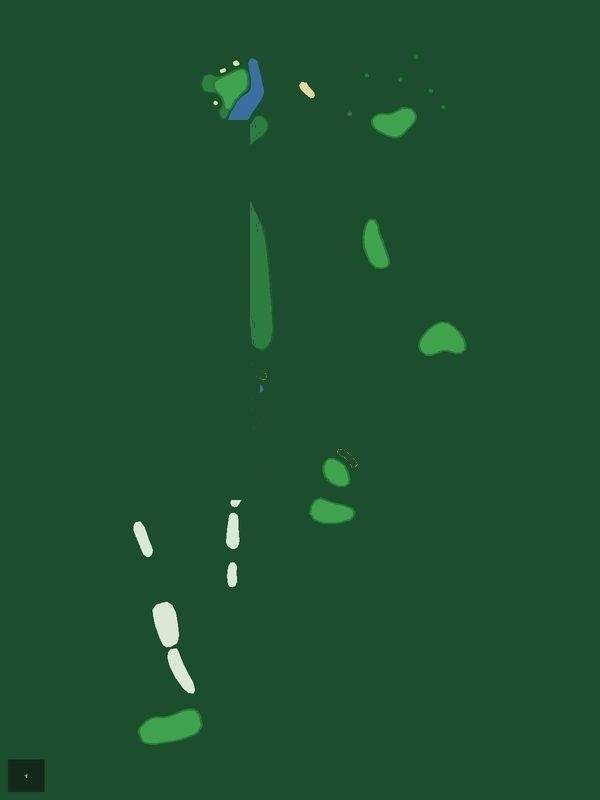
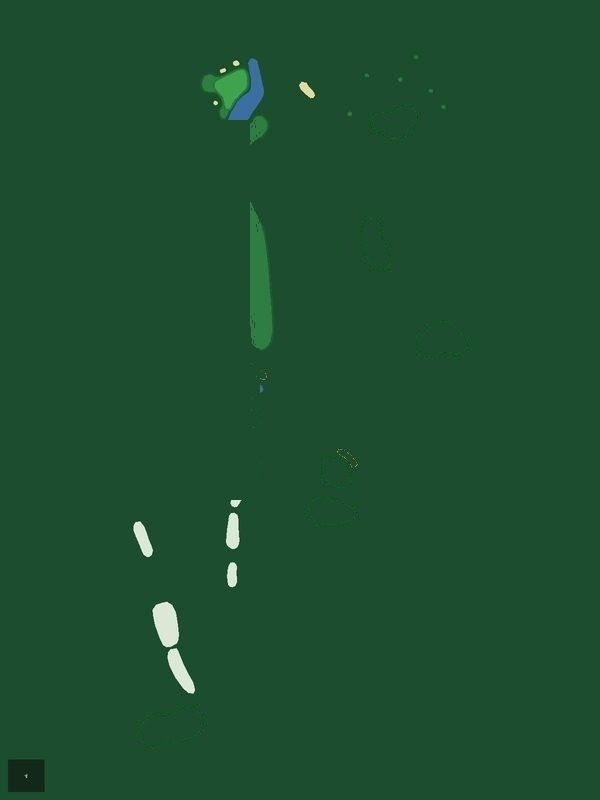
TPC Sawgrass: fix H3/H4/H5/H7 green locations, calibrate all 18 scales
H3: tee/pin were backwards (pin on bottom interloper blobs); painted
out 2 interloper green blobs, pin to real top green (0.633,0.146),
tee to lowest tee box (0.638,0.596).
H4: tee/pin swapped (pin on bottom blob); painted out 6 interloper
blobs, pin to real top green+water complex (0.385,0.107), tee to
on-corridor tee boxes (0.386,0.718).
H5: pin sat on a 3px noise speck; painted out 4 speck comps, pin to
the real (small) top green (0.238,0.187); tee unchanged.
H7: pin on detached top-right blob; vertical flip (tee was at top,
green at bottom — now matches screenshot bottom->top play with water
left), painted out interloper blob, pin to real green (0.457,0.132),
tee to bottom tee boxes (0.457,0.909).
All 18 holes re-verified against the new screenshots; H1,H2,H6,H8-H18
geometry confirmed GOOD. All 18 masks now contain exactly one green
component (the pin's green); all pins verify on-green via the lie
sampler palette. Removed the never-validated yardage markers on
H3/H5/H7 (invalidated by the pin moves). Calibrated yardsPerPixel on
all 18 holes from the new screenshot header yardages; par sequence
verified 4-5-3-4-4-4-4-3-5 / 4-5-4-3-4-4-5-3-4 (par 72), no changes.

diff --git a/app/lib/widgets/hole_map_manifest.dart b/app/lib/widgets/hole_map_manifest.dart
@@ -252,24 +252,24 @@ const holeMapManifest = <String, Map<int, HoleMapAsset>>{
     18: HoleMapAsset(par: 4, map: 'assets/hole_maps/pinehurst-no-2/18.jpg', mask: 'assets/hole_maps/pinehurst-no-2/18_mask.png', tee: Offset(0.493, 0.907), pin: Offset(0.492, 0.126), source: 'mixed'),
   },
   'TPC Sawgrass': {
-    1: HoleMapAsset(par: 4, map: 'assets/hole_maps/tpc-sawgrass/1.jpg', mask: 'assets/hole_maps/tpc-sawgrass/1_mask.png', tee: Offset(0.505, 0.925), pin: Offset(0.506, 0.124), source: 'osm', yardages: const [YardageMarker(offset: Offset(0.434, 0.536), yards: 229)]),
-    2: HoleMapAsset(par: 5, map: 'assets/hole_maps/tpc-sawgrass/2.jpg', mask: 'assets/hole_maps/tpc-sawgrass/2_mask.png', tee: Offset(0.507, 0.925), pin: Offset(0.508, 0.176), source: 'osm'),
-    3: HoleMapAsset(par: 3, map: 'assets/hole_maps/tpc-sawgrass/3.jpg', mask: 'assets/hole_maps/tpc-sawgrass/3_mask.png', tee: Offset(0.637, 0.143), pin: Offset(0.260, 0.895), source: 'osm', yardages: const [YardageMarker(offset: Offset(0.381, 0.911), yards: 8), YardageMarker(offset: Offset(0.471, 0.904), yards: 14), YardageMarker(offset: Offset(0.491, 0.429), yards: 112)]),
-    4: HoleMapAsset(par: 4, map: 'assets/hole_maps/tpc-sawgrass/4.jpg', mask: 'assets/hole_maps/tpc-sawgrass/4_mask.png', tee: Offset(0.387, 0.107), pin: Offset(0.285, 0.910), source: 'osm'),
-    5: HoleMapAsset(par: 4, map: 'assets/hole_maps/tpc-sawgrass/5.jpg', mask: 'assets/hole_maps/tpc-sawgrass/5_mask.png', tee: Offset(0.239, 0.629), pin: Offset(0.393, 0.313), source: 'osm', yardages: const [YardageMarker(offset: Offset(0.193, 0.377), yards: 184), YardageMarker(offset: Offset(0.212, 0.511), yards: 342)]),
-    6: HoleMapAsset(par: 4, map: 'assets/hole_maps/tpc-sawgrass/6.jpg', mask: 'assets/hole_maps/tpc-sawgrass/6_mask.png', tee: Offset(0.552, 0.925), pin: Offset(0.550, 0.214), source: 'osm'),
-    7: HoleMapAsset(par: 4, map: 'assets/hole_maps/tpc-sawgrass/7.jpg', mask: 'assets/hole_maps/tpc-sawgrass/7_mask.png', tee: Offset(0.458, 0.867), pin: Offset(0.790, 0.286), source: 'osm', yardages: const [YardageMarker(offset: Offset(0.718, 0.477), yards: 162), YardageMarker(offset: Offset(0.720, 0.508), yards: 180), YardageMarker(offset: Offset(0.722, 0.541), yards: 196), YardageMarker(offset: Offset(0.446, 0.792), yards: 408)]),
-    8: HoleMapAsset(par: 3, map: 'assets/hole_maps/tpc-sawgrass/8.jpg', mask: 'assets/hole_maps/tpc-sawgrass/8_mask.png', tee: Offset(0.625, 0.916), pin: Offset(0.625, 0.147), source: 'osm', yardages: const [YardageMarker(offset: Offset(0.598, 0.071), yards: -10), YardageMarker(offset: Offset(0.534, 0.106), yards: -3), YardageMarker(offset: Offset(0.733, 0.127), yards: 3), YardageMarker(offset: Offset(0.678, 0.185), yards: 21), YardageMarker(offset: Offset(0.503, 0.213), yards: 29), YardageMarker(offset: Offset(0.608, 0.278), yards: 48)]),
-    9: HoleMapAsset(par: 5, map: 'assets/hole_maps/tpc-sawgrass/9.jpg', mask: 'assets/hole_maps/tpc-sawgrass/9_mask.png', tee: Offset(0.500, 0.930), pin: Offset(0.500, 0.125), source: 'osm', yardages: const [YardageMarker(offset: Offset(0.597, 0.707), yards: 427)]),
-    10: HoleMapAsset(par: 4, map: 'assets/hole_maps/tpc-sawgrass/10.jpg', mask: 'assets/hole_maps/tpc-sawgrass/10_mask.png', tee: Offset(0.484, 0.801), pin: Offset(0.481, 0.101), source: 'osm'),
-    11: HoleMapAsset(par: 5, map: 'assets/hole_maps/tpc-sawgrass/11.jpg', mask: 'assets/hole_maps/tpc-sawgrass/11_mask.png', tee: Offset(0.497, 0.926), pin: Offset(0.498, 0.118), source: 'osm', yardages: const [YardageMarker(offset: Offset(0.589, 0.502), yards: 277)]),
-    12: HoleMapAsset(par: 4, map: 'assets/hole_maps/tpc-sawgrass/12.jpg', mask: 'assets/hole_maps/tpc-sawgrass/12_mask.png', tee: Offset(0.423, 0.916), pin: Offset(0.421, 0.136), source: 'osm', yardages: const [YardageMarker(offset: Offset(0.824, 0.503), yards: 160)]),
-    13: HoleMapAsset(par: 3, map: 'assets/hole_maps/tpc-sawgrass/13.jpg', mask: 'assets/hole_maps/tpc-sawgrass/13_mask.png', tee: Offset(0.579, 0.895), pin: Offset(0.580, 0.312), source: 'osm', yardages: const [YardageMarker(offset: Offset(0.584, 0.381), yards: 18), YardageMarker(offset: Offset(0.729, 0.336), yards: 16), YardageMarker(offset: Offset(0.697, 0.429), yards: 32)]),
-    14: HoleMapAsset(par: 4, map: 'assets/hole_maps/tpc-sawgrass/14.jpg', mask: 'assets/hole_maps/tpc-sawgrass/14_mask.png', tee: Offset(0.517, 0.903), pin: Offset(0.517, 0.209), source: 'osm'),
-    15: HoleMapAsset(par: 4, map: 'assets/hole_maps/tpc-sawgrass/15.jpg', mask: 'assets/hole_maps/tpc-sawgrass/15_mask.png', tee: Offset(0.569, 0.917), pin: Offset(0.568, 0.114), source: 'osm'),
-    16: HoleMapAsset(par: 5, map: 'assets/hole_maps/tpc-sawgrass/16.jpg', mask: 'assets/hole_maps/tpc-sawgrass/16_mask.png', tee: Offset(0.509, 0.828), pin: Offset(0.507, 0.096), source: 'osm'),
-    17: HoleMapAsset(par: 3, map: 'assets/hole_maps/tpc-sawgrass/17.jpg', mask: 'assets/hole_maps/tpc-sawgrass/17_mask.png', tee: Offset(0.339, 0.896), pin: Offset(0.344, 0.329), source: 'osm', yardages: const [YardageMarker(offset: Offset(0.001, 0.380), yards: 19), YardageMarker(offset: Offset(0.387, 0.325), yards: 10), YardageMarker(offset: Offset(0.378, 0.832), yards: 125)]),
-    18: HoleMapAsset(par: 4, map: 'assets/hole_maps/tpc-sawgrass/18.jpg', mask: 'assets/hole_maps/tpc-sawgrass/18_mask.png', tee: Offset(0.562, 0.904), pin: Offset(0.559, 0.112), source: 'osm'),
+    1: HoleMapAsset(par: 4, map: 'assets/hole_maps/tpc-sawgrass/1.jpg', mask: 'assets/hole_maps/tpc-sawgrass/1_mask.png', tee: Offset(0.505, 0.925), pin: Offset(0.506, 0.124), source: 'osm', yardsPerPixel: 0.6632, yardages: const [YardageMarker(offset: Offset(0.434, 0.536), yards: 229)]),
+    2: HoleMapAsset(par: 5, map: 'assets/hole_maps/tpc-sawgrass/2.jpg', mask: 'assets/hole_maps/tpc-sawgrass/2_mask.png', tee: Offset(0.507, 0.925), pin: Offset(0.508, 0.176), source: 'osm', yardsPerPixel: 0.8912),
+    3: HoleMapAsset(par: 3, map: 'assets/hole_maps/tpc-sawgrass/3.jpg', mask: 'assets/hole_maps/tpc-sawgrass/3_mask.png', tee: Offset(0.638, 0.596), pin: Offset(0.633, 0.146), source: 'osm', yardsPerPixel: 0.4944),
+    4: HoleMapAsset(par: 4, map: 'assets/hole_maps/tpc-sawgrass/4.jpg', mask: 'assets/hole_maps/tpc-sawgrass/4_mask.png', tee: Offset(0.386, 0.718), pin: Offset(0.385, 0.107), source: 'osm', yardsPerPixel: 0.7897),
+    5: HoleMapAsset(par: 4, map: 'assets/hole_maps/tpc-sawgrass/5.jpg', mask: 'assets/hole_maps/tpc-sawgrass/5_mask.png', tee: Offset(0.239, 0.629), pin: Offset(0.238, 0.187), source: 'osm', yardsPerPixel: 1.3348),
+    6: HoleMapAsset(par: 4, map: 'assets/hole_maps/tpc-sawgrass/6.jpg', mask: 'assets/hole_maps/tpc-sawgrass/6_mask.png', tee: Offset(0.552, 0.925), pin: Offset(0.550, 0.214), source: 'osm', yardsPerPixel: 0.6909),
+    7: HoleMapAsset(par: 4, map: 'assets/hole_maps/tpc-sawgrass/7.jpg', mask: 'assets/hole_maps/tpc-sawgrass/7_mask.png', tee: Offset(0.457, 0.909), pin: Offset(0.457, 0.132), source: 'osm', yardsPerPixel: 0.7272),
+    8: HoleMapAsset(par: 3, map: 'assets/hole_maps/tpc-sawgrass/8.jpg', mask: 'assets/hole_maps/tpc-sawgrass/8_mask.png', tee: Offset(0.625, 0.916), pin: Offset(0.625, 0.147), source: 'osm', yardsPerPixel: 0.3885, yardages: const [YardageMarker(offset: Offset(0.598, 0.071), yards: -10), YardageMarker(offset: Offset(0.534, 0.106), yards: -3), YardageMarker(offset: Offset(0.733, 0.127), yards: 3), YardageMarker(offset: Offset(0.678, 0.185), yards: 21), YardageMarker(offset: Offset(0.503, 0.213), yards: 29), YardageMarker(offset: Offset(0.608, 0.278), yards: 48)]),
+    9: HoleMapAsset(par: 5, map: 'assets/hole_maps/tpc-sawgrass/9.jpg', mask: 'assets/hole_maps/tpc-sawgrass/9_mask.png', tee: Offset(0.500, 0.930), pin: Offset(0.500, 0.125), source: 'osm', yardsPerPixel: 0.9053, yardages: const [YardageMarker(offset: Offset(0.597, 0.707), yards: 427)]),
+    10: HoleMapAsset(par: 4, map: 'assets/hole_maps/tpc-sawgrass/10.jpg', mask: 'assets/hole_maps/tpc-sawgrass/10_mask.png', tee: Offset(0.484, 0.801), pin: Offset(0.481, 0.101), source: 'osm', yardsPerPixel: 0.7554),
+    11: HoleMapAsset(par: 5, map: 'assets/hole_maps/tpc-sawgrass/11.jpg', mask: 'assets/hole_maps/tpc-sawgrass/11_mask.png', tee: Offset(0.497, 0.926), pin: Offset(0.498, 0.118), source: 'osm', yardsPerPixel: 0.8679, yardages: const [YardageMarker(offset: Offset(0.589, 0.502), yards: 277)]),
+    12: HoleMapAsset(par: 4, map: 'assets/hole_maps/tpc-sawgrass/12.jpg', mask: 'assets/hole_maps/tpc-sawgrass/12_mask.png', tee: Offset(0.423, 0.916), pin: Offset(0.421, 0.136), source: 'osm', yardsPerPixel: 0.5753, yardages: const [YardageMarker(offset: Offset(0.824, 0.503), yards: 160)]),
+    13: HoleMapAsset(par: 3, map: 'assets/hole_maps/tpc-sawgrass/13.jpg', mask: 'assets/hole_maps/tpc-sawgrass/13_mask.png', tee: Offset(0.579, 0.895), pin: Offset(0.580, 0.312), source: 'osm', yardsPerPixel: 0.3945, yardages: const [YardageMarker(offset: Offset(0.584, 0.381), yards: 18), YardageMarker(offset: Offset(0.729, 0.336), yards: 16), YardageMarker(offset: Offset(0.697, 0.429), yards: 32)]),
+    14: HoleMapAsset(par: 4, map: 'assets/hole_maps/tpc-sawgrass/14.jpg', mask: 'assets/hole_maps/tpc-sawgrass/14_mask.png', tee: Offset(0.517, 0.903), pin: Offset(0.517, 0.209), source: 'osm', yardsPerPixel: 0.8664),
+    15: HoleMapAsset(par: 4, map: 'assets/hole_maps/tpc-sawgrass/15.jpg', mask: 'assets/hole_maps/tpc-sawgrass/15_mask.png', tee: Offset(0.569, 0.917), pin: Offset(0.568, 0.114), source: 'osm', yardsPerPixel: 0.7316),
+    16: HoleMapAsset(par: 5, map: 'assets/hole_maps/tpc-sawgrass/16.jpg', mask: 'assets/hole_maps/tpc-sawgrass/16_mask.png', tee: Offset(0.509, 0.828), pin: Offset(0.507, 0.096), source: 'osm', yardsPerPixel: 0.8965),
+    17: HoleMapAsset(par: 3, map: 'assets/hole_maps/tpc-sawgrass/17.jpg', mask: 'assets/hole_maps/tpc-sawgrass/17_mask.png', tee: Offset(0.339, 0.896), pin: Offset(0.344, 0.329), source: 'osm', yardsPerPixel: 0.3064, yardages: const [YardageMarker(offset: Offset(0.001, 0.380), yards: 19), YardageMarker(offset: Offset(0.387, 0.325), yards: 10), YardageMarker(offset: Offset(0.378, 0.832), yards: 125)]),
+    18: HoleMapAsset(par: 4, map: 'assets/hole_maps/tpc-sawgrass/18.jpg', mask: 'assets/hole_maps/tpc-sawgrass/18_mask.png', tee: Offset(0.562, 0.904), pin: Offset(0.559, 0.112), source: 'osm', yardsPerPixel: 0.7371),
   },
   'TPC Scottsdale': {
     1: HoleMapAsset(par: 4, map: 'assets/hole_maps/tpc-scottsdale/1.jpg', mask: 'assets/hole_maps/tpc-scottsdale/1_mask.png', tee: Offset(0.591, 0.904), pin: Offset(0.596, 0.127), source: 'mixed', yardsPerPixel: 0.5963, yardages: const [YardageMarker(offset: Offset(0.583, 0.374), yards: 118), YardageMarker(offset: Offset(0.500, 0.571), yards: 212)]),
